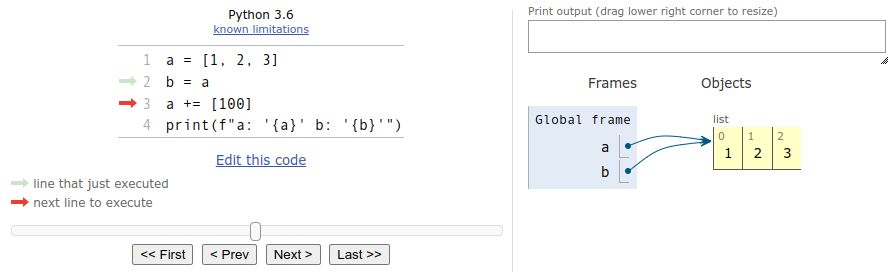
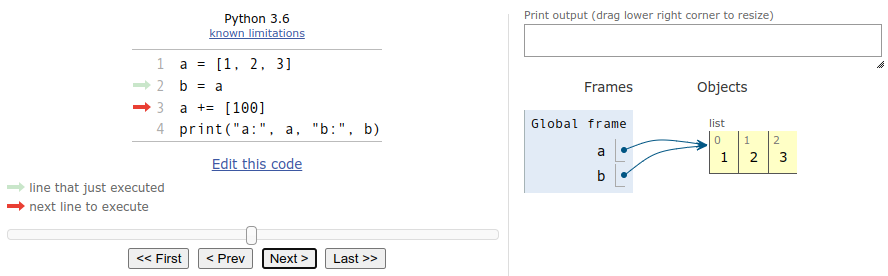
removed fstring print for list, only useful for str

diff --git a/opdrachten/week6/memory_model_theory/mm_list_copy.py b/opdrachten/week6/memory_model_theory/mm_list_copy.py
@@ -3,4 +3,4 @@ import copy
 a = [1, 2, 3]
 b = copy.copy(a)
 a += [100]
-print(f"a: '{a}' b: '{b}'")
+print("a:", a, "b:", b)

diff --git a/opdrachten/week6/memory_model_theory/mm_list.py b/opdrachten/week6/memory_model_theory/mm_list.py
@@ -1,4 +1,4 @@
 a = [1, 2, 3]
 b = a
 a += [100]
-print(f"a: '{a}' b: '{b}'")
+print("a:", a, "b:", b)

diff --git a/opdrachten/week6/memory_model_theory/index.md b/opdrachten/week6/memory_model_theory/index.md
@@ -73,9 +73,9 @@ anders.
     a = [1, 2, 3]
     b = a
     a += [100]
-    print(f"a: '{a}' b: '{b}'")
-
-Na uitvoeren van regel 1 verwijst variable `a` naar een lijst
+    print("a:", a, "b:", b)
+    
+Na uitvoeren van regel 1 verwijst variable `a` naar de lijst
 `[1, 2, 3]`.
 
 ![](mm_list2.png){: style="width:20rem;"}
@@ -108,7 +108,7 @@ aan de aanpassing van `a`.
     a = [1, 2, 3]
     b = copy.copy(a)
     a += [100]
-    print(f"a: '{a}' b: '{b}'")
+    print("a:", a, "b:", b)
 
 ![](mm_list_copy5.png){: style="width:20rem;"}
 
